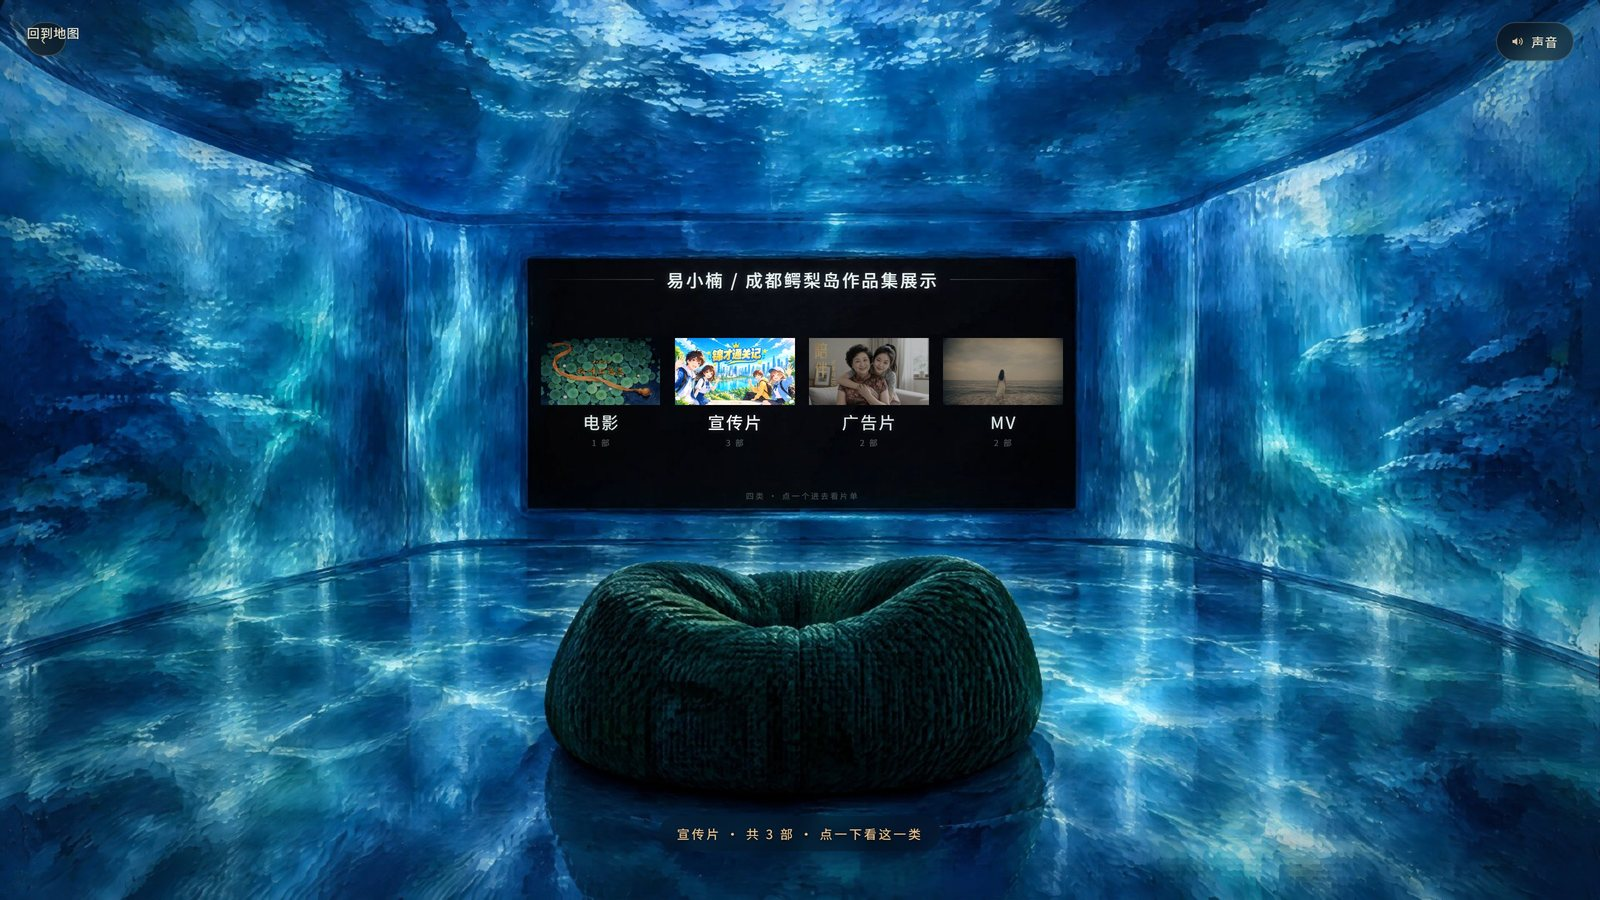
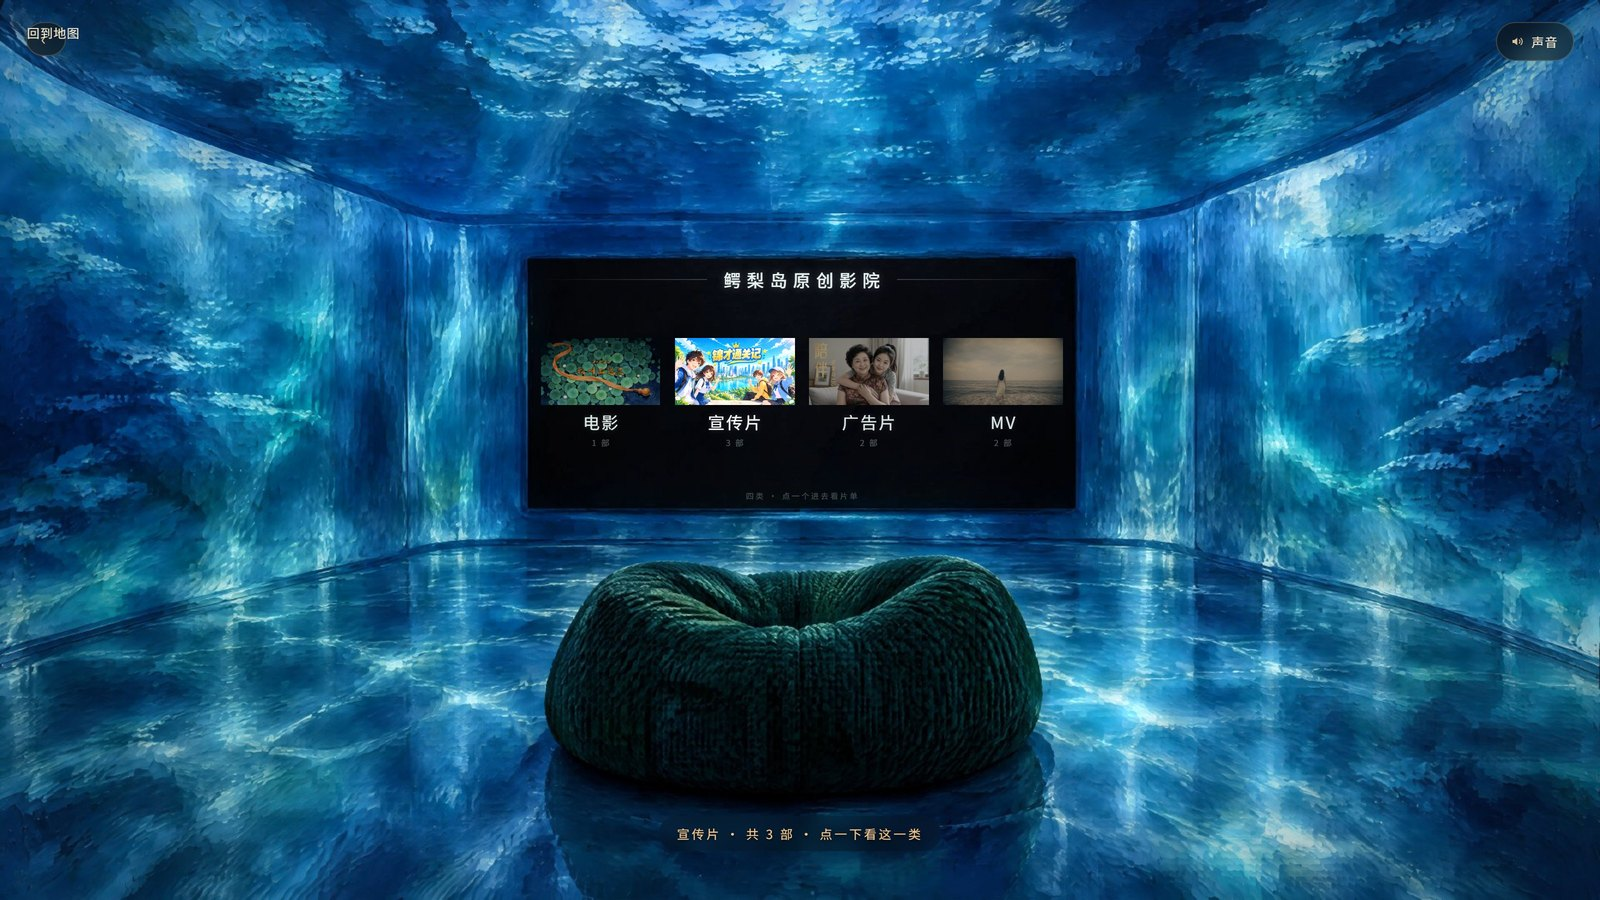
影院：标题改回「鳄梨岛原创影院」，放映回到幕里，全屏交给播放者
- BOARD_TITLE 从「易小楠 / 成都鳄梨岛作品集展示」改回「鳄梨岛原创影院」；
  为十五字加的 0.12em 字距收紧规则一并撤掉，七字回到 0.34em。
- 撤销上一轮的舞台 fixed：放映回到那块 2.2:1 的幕里，object-fit: contain，
  接受左右黑边（与幕同色 #000，看着是暗场）。
- 消失的 body.is-immersive 相关样式与三处 JS 调用全部清掉。
- 满屏改由播放者自己点视频控制条上的全屏键。片源已是 1080p，
  实测 1600x900 屏上放大倍数 0.83（未放大），不会像 720p 那样糊。
- README 影院图重抓（旧图标题还是旧文案），压回 1600x900 / 273KB。

diff --git a/index.html b/index.html
@@ -1071,14 +1071,8 @@
     color: #EAF2F0; font-weight: 500; white-space: nowrap;
     text-shadow: 0 0 calc(var(--u) * 1.3) rgba(190, 226, 232, 0.32);
   }
-  /* 首页标题是「易小楠 / 成都鳄梨岛作品集展示」，十五个字。
-     0.34em 的字距是给"电影""MV"这种两三个字的分类名留的 ——
-     十五个字按那个间距排开，一眼看过去是十五个孤字，不是一句话。
-     所以只在四类首页收紧（片单层仍按分类名那套走，字少需要间距撑着） */
-  .cs-board:not(.is-l2) .cs-title {
-    letter-spacing: 0.12em;
-    padding-left: 0.12em;
-  }
+  /* 首页标题回到「鳄梨岛原创影院」七个字，0.34em 那套字距正好撑得住，
+     所以原先为十五字加的那条收紧规则一并撤掉 —— 七个字按 0.12em 排会挤成一团 */
 
   /* 提示落在最底下，像银幕上的一行小字 */
   .cs-foot {
@@ -1417,26 +1411,26 @@
     opacity: 0; pointer-events: none;
     transition: opacity 320ms ease;
   }
-  /* 2026-11-23：放映不再困在那块 2.2:1 的幕里。
-     点开就是整个窗口的 16:9 画面 —— 不裁，也没有左右那两条黑。
-     16:9 的屏上严丝合缝；16:10 的笔记本上下各留约 5%，比原来左右各 19% 少得多。
-     .cabin-frame 是 absolute + overflow:hidden，但它没有 transform / filter，
-     不构成 fixed 的包含块，所以这里逃得出去、也不会被它裁掉。 */
-  .cinema-slot.is-playing .cs-stage {
-    opacity: 1; pointer-events: auto;
-    position: fixed; inset: 0; z-index: 300;
-  }
+  /* 2026-11-23 两次反复，结论留在这里：
+     曾试过放映时让舞台 fixed 铺满整个窗口，画面确实满、也确实不裁，
+     但那等于离开了水下影院这块幕。本人定的调子是——
+     默认就在幕里放，允许左右留黑；想看满屏由播放者自己点视频控制条上的全屏键。
+     所以下面不再给舞台任何 fixed。 */
+  .cinema-slot.is-playing .cs-stage { opacity: 1; pointer-events: auto; }
 
   .cs-video {
     display: block; width: 100%; height: 100%;
     /* 画面永远不裁 —— 这一条是硬的。
      *
-     * 两块比例不同的屏，靠 contain 让片子完整落在里面，多出来的地方是黑。
-     * 舞台一变成全窗口（见上面 .cs-stage），那块黑就从"幕的左右两条"
-     * 缩成"16:10 屏的上下各 5%"，等于满屏。
+     * 幕是 2.2:1（548×249 这种量级），片子是 16:9。两块比例不同的屏，
+     * contain 让整幅画面落在幕里，多出来的左右两条是黑。
+     * 那两条黑和幕本身是同一个 #000，看着是画面外的暗场，不是另外加的边框。
      *
-     * 曾经试过 cover 去填满那块 2.2:1 的幕，上下各裁掉约 10% 画面，
-     * 不能接受，退回来了。不裁优先于填满。 */
+     * 试过 cover 去填满，上下各裁掉约 10% 画面，不能接受，退回来了。
+     * 不裁优先于填满 —— 这是本人的取舍，别再改回去。
+     *
+     * 想满屏就点控制条上的全屏键：那时浏览器接管，画面铺满显示器，
+     * 片源已经是 1080p，放大到 1920 宽也是 1:1，不会糊。 */
     object-fit: contain;
     background: #000;
   }
@@ -1464,30 +1458,6 @@
     background: rgba(14, 44, 50, 0.82);
     border-color: rgba(190, 240, 246, 0.55);
     color: #F2FCFD;
-  }
-
-  /* 全窗口放映时 --u 只有 4~7px（1% 幕宽），照搬会缩成一粒。
-     这时尺寸改用固定像素，跟着窗口走而不是跟着幕走 */
-  .cinema-slot.is-playing .cs-back {
-    left: 22px; top: 22px;
-    gap: 5px; padding: 8px 16px 8px 12px;
-    font-size: 14px;
-  }
-  .cinema-slot.is-playing .cs-back i { font-size: 18px; margin-top: -2px; }
-  .cinema-slot.is-playing .cs-plate-title { font-size: 20px; }
-  .cinema-slot.is-playing .cs-plate-note { font-size: 14px; }
-
-  /* 放映时把站内那几个固定件让开。
-     场馆的返回按钮和「片单」都蹲在左上角，它还带着 backdrop-filter，
-     实打实盖在舞台上面 —— 不让开的话出口点不到。
-     放映本来就是全窗口的事，这些东西这时候也不该在场。 */
-  body.is-immersive .cabin-back,
-  body.is-immersive .corner,
-  body.is-immersive .room-head,
-  body.is-immersive .hint,
-  body.is-immersive .intro-guide {
-    visibility: hidden !important;
-    pointer-events: none !important;
   }
 
   /* 片源没到 / 读不出来：幕上放一块提示牌，不假装能播。

diff --git a/src/scenes/imageScene.js b/src/scenes/imageScene.js
@@ -39,11 +39,11 @@ import { createReportLetter } from './reportLetter.js'
 /**
  * 幕上片单首页的标题。
  *
- * 原来写的是「鳄梨岛原创影院」，2026-11-23 改成作品集署名 —— 这一页对外发的
- * 时候是名片，得先告诉人这是谁的东西。折回来时（setLevel 里回四类）也用这一句，
- * 所以提成常量，两处不会再走散。
+ * 2026-11-23 一度改成作品集署名「易小楠 / 成都鳄梨岛作品集展示」，
+ * 当天又改回「鳄梨岛原创影院」—— 这一页对外发的是影院，不是个人名片。
+ * 折回来时（setLevel 里回四类）也用这一句，所以提成常量，两处不会走散。
  */
-const BOARD_TITLE = '易小楠 / 成都鳄梨岛作品集展示'
+const BOARD_TITLE = '鳄梨岛原创影院'
 
 export function createImageScene({
   assets,
@@ -474,11 +474,8 @@ export function createImageScene({
       },
 
       dispose() {
-        // 放映中途被切走（换场景、退回地图）也要把这个状态摘掉，
-        // 否则回到别的房间时站内按钮全是隐形的
         playing = false
         slot.classList.remove('is-playing')
-        document.body.classList.remove('is-immersive')
         try { video.pause() } catch { /* 已经没了 */ }
         video.removeAttribute('src')
         try { video.load() } catch { /* 忽略 */ }
@@ -538,8 +535,6 @@ export function createImageScene({
       current = item
       playing = true
       slot.classList.add('is-playing')
-      // 放映是全窗口的，站内那几个固定件要让开（见 index.html 里 body.is-immersive）
-      document.body.classList.add('is-immersive')
 
       if (!item.film) {
         video.removeAttribute('src')
@@ -569,7 +564,6 @@ export function createImageScene({
       playing = false
       current = null
       slot.classList.remove('is-playing')
-      document.body.classList.remove('is-immersive')
       try { video.pause() } catch { /* 忽略 */ }
       // 退回它所在的那一类，而不是一路退回四类首页 ——
       // 看完一部想的是"这一类里还有没有别的"，不是"我重新选一遍分类"

diff --git a/README.md b/README.md
@@ -44,7 +44,7 @@
 **动画作品**
 
 - 《白蛇传之我叫王道灵》—— 80 分钟 AIGC 动画长片，中国水彩风格。2026 年 6 月 19 日经北京国际电影节相关渠道登陆腾讯视频电影频道，上线后连续 10 天位列动画榜第一。
-- 站内影院按「电影 / 宣传片 / 广告片 / MV」四类收了八部片子，除《白蛇传》是预告外都是完整成片，点开就能放。放映时画面会离开那块幕、铺满整个窗口，16:9 不裁不留边。
+- 站内影院按「电影 / 宣传片 / 广告片 / MV」四类收了八部片子，除《白蛇传》是预告外都是完整成片，点开就能放。放映就在那块幕里，画面完整不裁；想满屏点播放条上的全屏键，片源是 1080p，放大也不糊。
 
 **这个展厅本身**
 
